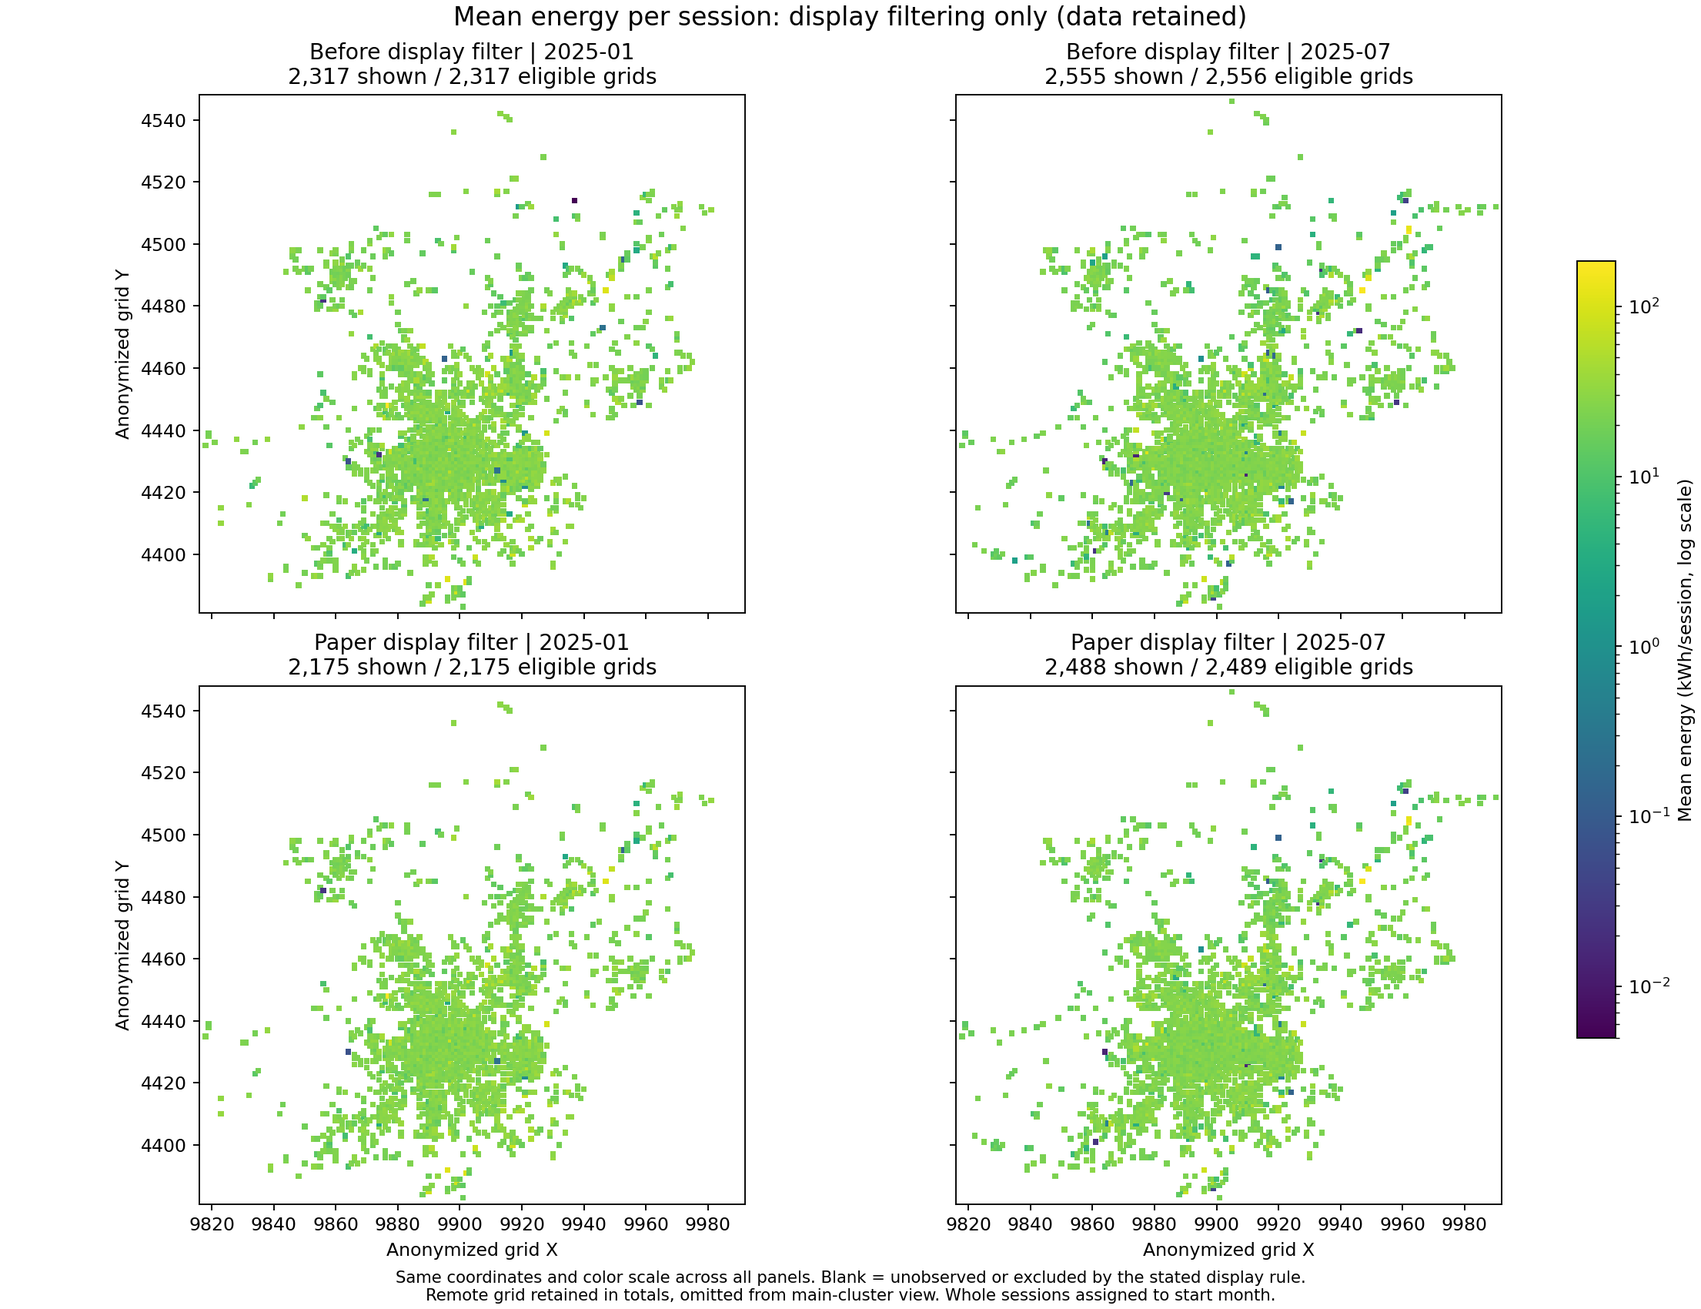
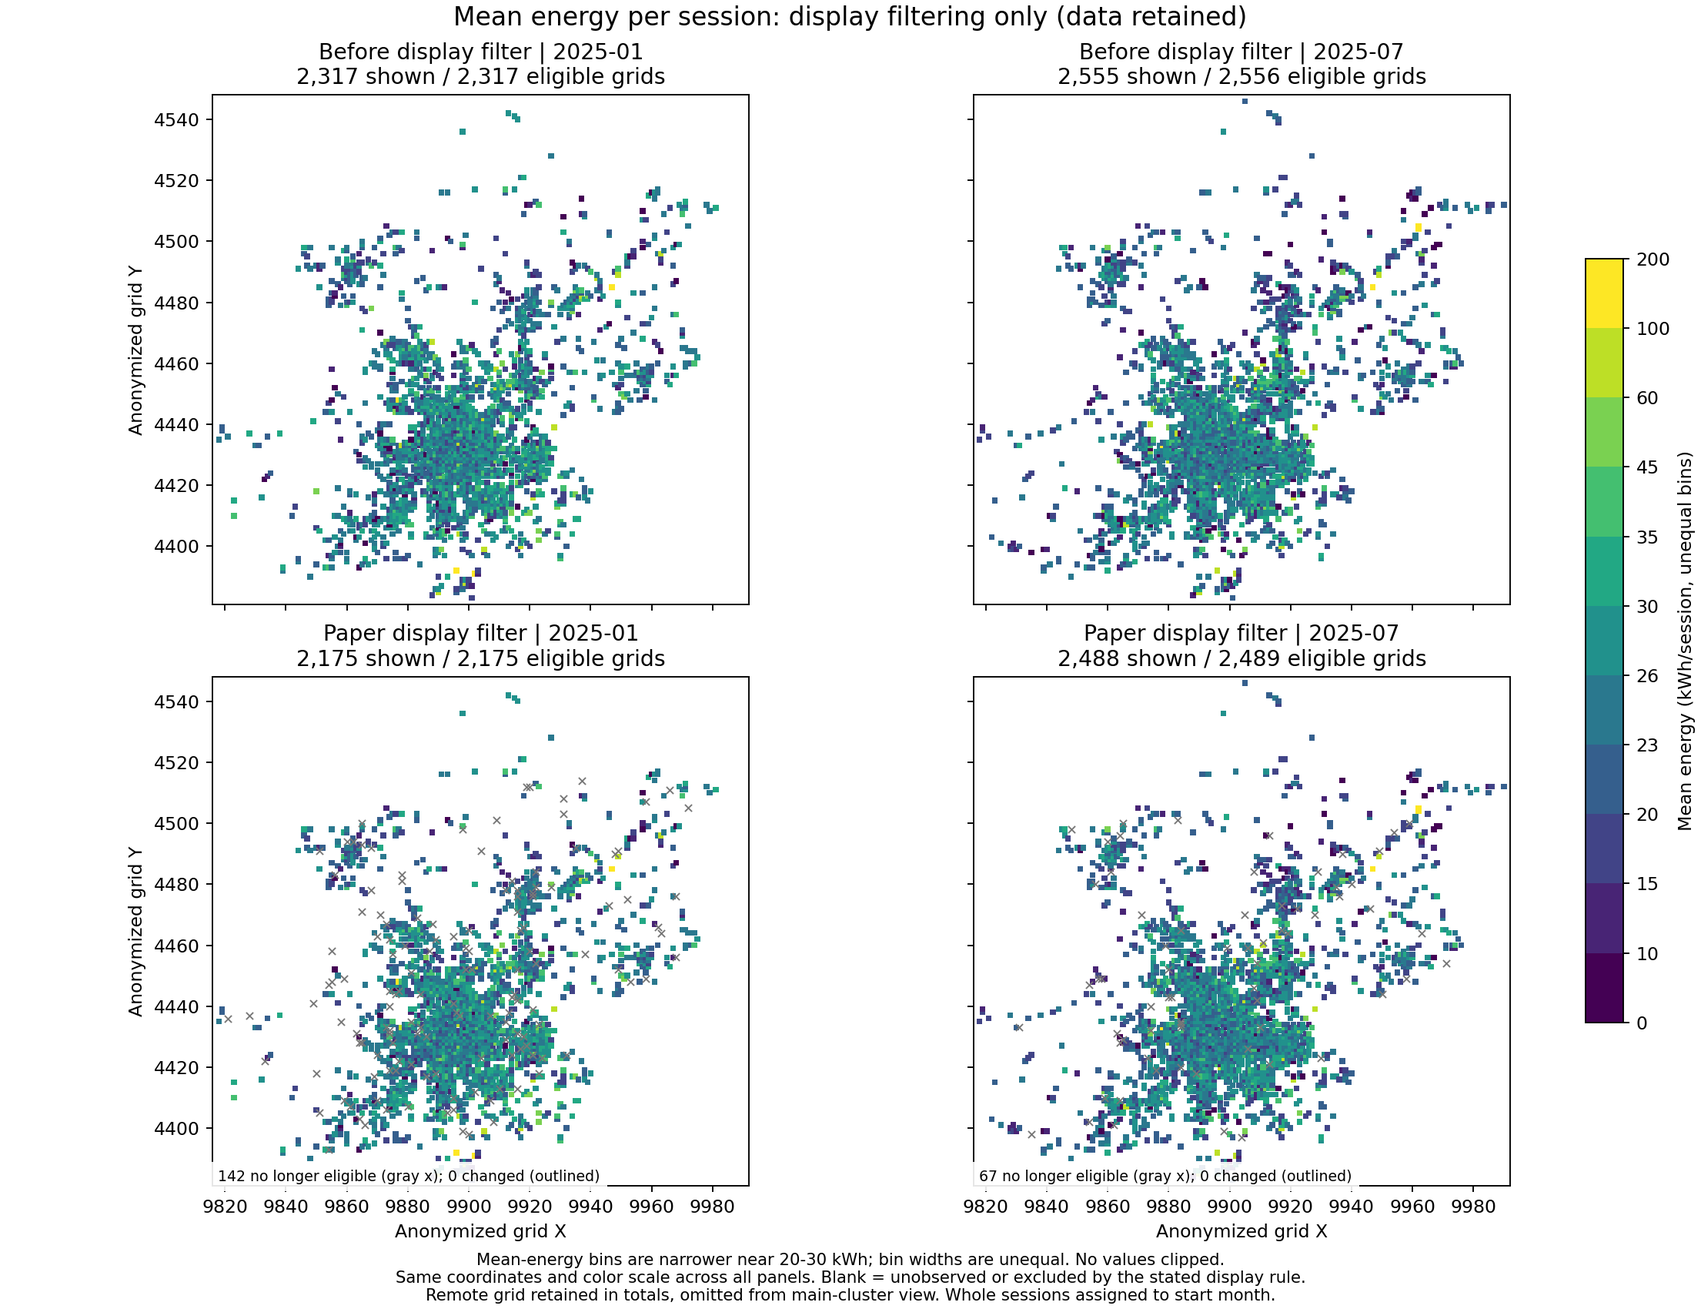
Improve mean-energy color bins and paired utilization viewports

diff --git a/src/analyze_grid_sensitivity.py b/src/analyze_grid_sensitivity.py
@@ -5,7 +5,7 @@ from pathlib import Path
 import matplotlib
 matplotlib.use('Agg')
 import matplotlib.pyplot as plt
-from matplotlib.colors import LogNorm
+from matplotlib.colors import BoundaryNorm
 from matplotlib.ticker import PercentFormatter
 import numpy as np
 import pandas as pd
@@ -62,9 +62,14 @@ def paired_changes(base,alternative,metric):
 def plot_comparison(base,alt,metric,row_names,title,out,main_ids,limits):
     b,norm,cmap=utilization_color_scale()
     if metric=='mean_energy':
-        values=pd.concat([base[metric],alt[metric]])
-        values=values.loc[values.gt(0)]
-        norm,cmap=LogNorm(values.min(),values.max()),'viridis'
+        # Common thresholds for both months and both comparisons. All observed
+        # values remain visible; dense central values receive more color steps.
+        b=np.array([0,10,15,20,23,26,30,35,45,60,100,200],dtype=float)
+        values=pd.concat([base[metric],alt[metric]]).dropna()
+        if values.min()<b[0] or values.max()>b[-1]:
+            raise ValueError('Mean-energy range exceeded: revise explicit display boundaries')
+        cmap=plt.get_cmap('viridis',len(b)-1)
+        norm=BoundaryNorm(b,cmap.N)
     fig,axes=plt.subplots(2,2,figsize=(13,10),sharex=True,sharey=True,layout='constrained')
     for row,g in enumerate([base,alt]):
         for col,month in enumerate(MONTHS):
@@ -72,15 +77,33 @@ def plot_comparison(base,alt,metric,row_names,title,out,main_ids,limits):
             visible=eligible.loc[eligible.grid_id.isin(main_ids)]
             artist=axes[row,col].scatter(visible.x,visible.y,c=visible[metric],cmap=cmap,norm=norm,
                 s=10,marker='s',linewidths=0,rasterized=True)
+            annotation=''
+            if row==1 and metric=='mean_energy':
+                prior=base.loc[base.month.eq(month)].set_index('grid_id')
+                current=g.loc[g.month.eq(month)].set_index('grid_id')
+                lost=prior.loc[prior.index.difference(current.index)]
+                lost_visible=lost.loc[lost.index.isin(main_ids)]
+                axes[row,col].scatter(lost_visible.x,lost_visible.y,s=15,marker='x',c='#777777',linewidths=.8)
+                shared=prior.index.intersection(current.index)
+                changed=(current.loc[shared,metric]-prior.loc[shared,metric]).abs().gt(1e-9)
+                changed_ids=shared[changed]
+                changed_visible=current.loc[current.index.isin(changed_ids)&current.index.isin(main_ids)]
+                axes[row,col].scatter(changed_visible.x,changed_visible.y,s=30,facecolors='none',edgecolors='#111111',linewidths=.8)
+                annotation=f'\n{len(lost)} no longer eligible (gray x); {len(changed_ids)} changed (outlined)'
             axes[row,col].set(title=f'{row_names[row]} | {month}\n{len(visible):,} shown / {len(eligible):,} eligible grids',
                               xlim=limits[:2],ylim=limits[2:])
             axes[row,col].set_aspect('equal',adjustable='box')
             if row==1: axes[row,col].set_xlabel('Anonymized grid X')
             if col==0: axes[row,col].set_ylabel('Anonymized grid Y')
-    options={} if metric=='mean_energy' else dict(boundaries=b,ticks=b,spacing='uniform',format=PercentFormatter(1,decimals=0))
-    fig.colorbar(artist,ax=axes,shrink=.7,label='Mean energy (kWh/session, log scale)' if metric=='mean_energy' else 'Estimated connector utilization',**options)
+            if annotation:
+                axes[row,col].text(.01,.01,annotation.strip(),transform=axes[row,col].transAxes,fontsize=8,
+                    bbox=dict(facecolor='white',alpha=.9,edgecolor='none'))
+    options=dict(boundaries=b,ticks=b,spacing='uniform')
+    if metric!='mean_energy':options['format']=PercentFormatter(1,decimals=0)
+    fig.colorbar(artist,ax=axes,shrink=.7,label='Mean energy (kWh/session, unequal bins)' if metric=='mean_energy' else 'Estimated connector utilization',**options)
     fig.suptitle(title,fontsize=14)
-    fig.supxlabel('Same coordinates and color scale across all panels. Blank = unobserved or excluded by the stated display rule.\n'
+    extra='Mean-energy bins are narrower near 20-30 kWh; bin widths are unequal. No values clipped.\n' if metric=='mean_energy' else ''
+    fig.supxlabel(extra+'Same coordinates and color scale across all panels. Blank = unobserved or excluded by the stated display rule.\n'
                   'Remote grid retained in totals, omitted from main-cluster view. Whole sessions assigned to start month.',fontsize=9)
     fig.savefig(out,dpi=170)
     plt.close(fig)
@@ -151,8 +174,11 @@ def main():
         c=d['metrics']['utilization']['paired_changes']
         lines.append(f"| {month} | {c['median_abs_difference']*100:.4f} | {c['p95_abs_difference']*100:.4f} | {c['max_abs_difference']*100:.4f} | {c['rank_correlation']:.4f} |")
     lines+=['','指标差异为替代方案减基准的绝对值；排名相关使用共同达标网格的平均秩Pearson相关（Spearman定义）。低样本或移除站点导致不达标的网格另计，不以零填补。',
-        '总体影响小不代表每个网格均不受影响，局部差异需单独核查。当前仍存在静态枪数、整月可用及开始月整笔归属假设，未进行停机、会话重叠和自然月时长分摊。',
-        '图上主坐标簇与所有统计使用的完整网格范围分开报告，空间离群点未从数据删除。未进一步完成冬夏共同站点或因果分析。']
+        '总体影响小不代表每个网格均不受影响，局部差异需单独核查。本组分析使用静态枪数、整月可用及开始月整笔归属假设，未校正停机或会话重叠。独立的自然月时长对照见[自然月报告](calendar_month_review.md)。',
+        '图上主坐标簇与所有统计使用的完整网格范围分开报告，空间离群点未从数据删除。共同站点比较见[冬夏报告](winter_summer_comparison.md)，当前未作因果分析。',
+        '', '## 图表标尺修订', '',
+        '平均单次电量两张图使用相同的分段色标：0、10、15、20、23、26、30、35、45、60、100、200 kWh。常见20—30 kWh区间细分，所有观测值保留，色条各段宽度不等，不再使用跨多个数量级的对数色标。',
+        '下排灰色叉号标记不再达标的网格，黑色空心圈标记在共同达标样本中均值变化超过数值容差1e-9 kWh的网格。数量按完整样本统计，远端网格仍按主图范围规则隐藏。展示筛选不会改变保留网格的均值，前后颜色一致具有实际含义。']
     (ROOT/'reports/release_v2_filters_sensitivity.md').write_text('\n'.join(lines)+'\n',encoding='utf-8')
     print(json.dumps(report['months'],ensure_ascii=False,indent=2),flush=True)
     print(output)

diff --git a/src/compare_winter_summer.py b/src/compare_winter_summer.py
@@ -77,17 +77,30 @@ def main():
             row['removed_duration_min']=float(flagged.monthly_duration_min.sum())
             entries.append(row)
         result['large_local_changes'][month]=entries
-    # Each plotted cohort is independently paired; fixed panels retain identity line.
-    fig,axes=plt.subplots(1,3,figsize=(13,4.5),layout='constrained')
-    for ax,name,label in zip(axes,['common_grids','common_stations','common_stations_consistent_facilities'],
-                              ['Common grids','Common stations','Common stations, counts consistent']):
-        p=paired(grid_frames[name],'utilization','guns')*100
-        ax.scatter(p[MONTHS[0]],p[MONTHS[1]],s=8,alpha=.35)
-        ax.plot([0,100],[0,100],color='gray',linewidth=1)
-        ax.set(xlim=(0,100),ylim=(0,100),xlabel='January utilization (%)',ylabel='July utilization (%)',title=f'{label}\n{len(p):,} paired grids')
-        ax.set_aspect('equal')
+    # Common equal-aspect axes preserve the identity-line interpretation. The
+    # first row contains every point; the second is explicitly a viewport zoom.
+    pair_names=['common_grids','common_stations','common_stations_consistent_facilities']
+    pairs={name:paired(grid_frames[name],'utilization','guns')*100 for name in pair_names}
+    maximum=max(float(p.to_numpy().max()) for p in pairs.values())
+    full_limit=max(10.,float(np.ceil(maximum/10)*10))
+    zoom_limit=25.
+    result['scatter_display']={'full_axis_max_percent':full_limit,'zoom_axis_max_percent':zoom_limit,'cohorts':{}}
+    fig,axes=plt.subplots(2,3,figsize=(13,9),layout='constrained')
+    for col,(name,label) in enumerate(zip(pair_names,
+                              ['Common grids','Common stations','Common stations, counts consistent'])):
+        p=pairs[name]
+        in_zoom=p[MONTHS[0]].le(zoom_limit)&p[MONTHS[1]].le(zoom_limit)
+        result['scatter_display']['cohorts'][name]={'total':len(p),'inside_zoom':int(in_zoom.sum()),'outside_zoom':int((~in_zoom).sum())}
+        for row,limit in enumerate([full_limit,zoom_limit]):
+            ax=axes[row,col]
+            shown=p if row==0 else p.loc[in_zoom]
+            ax.scatter(shown[MONTHS[0]],shown[MONTHS[1]],s=7,alpha=.3,linewidths=0,rasterized=True)
+            ax.plot([0,limit],[0,limit],color='gray',linewidth=1)
+            caption=f'All {len(p):,} paired grids' if row==0 else f'Zoom: {int(in_zoom.sum()):,} inside / {int((~in_zoom).sum()):,} outside view'
+            ax.set(xlim=(0,limit),ylim=(0,limit),xlabel='January utilization (%)',ylabel='July utilization (%)',title=f'{label}\n{caption}')
+            ax.set_aspect('equal')
     fig.suptitle('Paired grid utilization: at least 5 observed guns in both months')
-    fig.supxlabel('Observed-active samples; static capacity, full-month availability and start-month attribution assumed. Not a seasonal causal estimate.',fontsize=8)
+    fig.supxlabel('Top row: complete data range. Bottom row: 0-25% zoom; outside-view points remain in all statistics.\nObserved-active samples; static capacity, full-month availability and start-month attribution assumed. Not a seasonal causal estimate.',fontsize=8)
     fig.savefig(output/'01-paired-utilization.png',dpi=170);plt.close(fig)
     fig,axes=plt.subplots(1,2,figsize=(11,4.5),layout='constrained')
     names=list(cohorts);labels=['All observed','Common grids','Common stations','Common stations\nconsistent counts']
@@ -120,7 +133,10 @@ def main():
     lines+=['','差异由移除整个站点同时改变分子时长与分母枪数产生，不能据此认定总数或分项哪一个正确，也不能直接指定某网格为供给不足。达标样本消失的网格见上一轮敏感性清单，不补零。',
             '汇总利用率是总时长／总枪时，配对中位数则是逐网格变化的中位数，不能混称。共同站点是两月都有记录的活跃选择样本，并非两月全部真实在运设施。',
             '当前只能描述1月和7月观察样本的差异，不证明冬夏季节因果。春节、价格、车辆结构、站点开放时间与覆盖变化未被控制。',
-            '尚未校正静态容量与整月可用假设、会话重叠或自然月占用时长。现有结果不是最终选址或供需缺口结论。']
+            '本组仍采用开始月整笔归属，未校正静态容量与整月可用假设或会话重叠；独立的自然月占用时长对照见[自然月报告](calendar_month_review.md)。现有结果不是最终选址或供需缺口结论。',
+            '', '## 配对散点图显示范围', '',
+            f'上排统一使用0%—{full_limit:g}%坐标，覆盖全部配对点。下排统一放大0%—{zoom_limit:g}%区间，仅改变视窗，不删除原始或分析记录，每幅标明视窗内外数量。上下排均保持横纵同尺度和相同利用率对角线。',
+            '旧0%—100%坐标造成不必要留白。标尺修订不改变配对样本、汇总利用率或变化统计。']
     (ROOT/'reports/winter_summer_comparison.md').write_text('\n'.join(lines)+'\n',encoding='utf-8')
     assert digest(source)==before
     print('\n'.join(lines),flush=True)

diff --git a/reports/chart_scale_review.md b/reports/chart_scale_review.md
@@ -1,0 +1,21 @@
+# 三张图的标尺核查与调整
+
+## 核查结果
+
+平均单次电量的两张对照图使用覆盖最小值至最大值的对数色标，确实压缩了典型范围内的色差。完整基准网格均值范围约0.005—183.861 kWh，中位数24.960 kWh，四分位区间21.750—28.211 kWh。用跨多个数量级的色标展示集中于20—30 kWh的主体，导致大多数网格接近同色。
+
+配对利用率散点图原坐标为0%—100%，而共同网格的1月最大约38.063%、7月最大约52.737%；95分位分别约12.661%和22.424%。因此存在不必要留白和低值密集遮挡。
+
+## 已实施的修订
+
+1. 两张电量均值图共用相同分段：0、10、15、20、23、26、30、35、45、60、100、200 kWh。常见范围细分，尾部保留；不剔除或裁切极端值。色条明确注明各区间宽度不同，不将色差解读成相同数值差。
+2. 下排标记被筛掉的网格和发生实际变化的网格。筛掉的网格用灰叉，仍达标且均值变化的网格用黑色空心圈。主图仍遵循既有远端坐标显示范围规则，标题数量按完整样本统计。
+3. 散点图改成两排：上排统一0%—60%，覆盖全部点；下排统一0%—25%放大图，并标注视窗内外数量。横纵同尺度，保留相等利用率对角线，所有统计继续使用完整配对样本。
+
+## 为什么调整后前后图仍可能相似
+
+低样本筛选仅决定网格是否展示，不改变保留网格的订单、电量或平均值。因此同一网格筛前筛后颜色相同是正确结果。变化主要体现在1月142个、7月67个低订单网格不再展示，而不是全部网格重新变色。
+
+设施计数敏感性中，排除异常计数站点会同时移除其订单、电量。共同达标网格的平均电量在1月17个、7月33个网格发生变化，大多数网格保持原值，另有网格因消失或不达门槛而不再展示。不能为了让前后看起来不同而分别调整各面板色标。
+
+本次只改展示方式，源数据、筛选规则和统计结论均保持不变。README引用现有图片路径，刷新即可看到修订图。原图的已提交版本可通过Git历史对照。

diff --git a/README.md b/README.md
@@ -98,7 +98,7 @@ python src/analyze_calendar_month.py
 
 这组图单独实施论文展示门槛，基准空间图仍保留完整观测网格。详见[筛选及敏感性说明](reports/release_v2_filters_sensitivity.md)。
 
-**9. 平均单次电量的低样本筛选对照**：筛选前后比较，门槛为至少5笔订单。
+**9. 平均单次电量的低样本筛选对照**：门槛为至少5笔订单。共用常见范围更细的分段色标，灰叉标出筛掉的网格，保留网格的均值不变。
 
 ![平均单次电量展示筛选](reports/figures/source_release2/20261104T011749595890Z/paper_filters_sensitivity/mean_energy_display_filter.png)
 
@@ -106,7 +106,7 @@ python src/analyze_calendar_month.py
 
 ![利用率展示筛选](reports/figures/source_release2/20261104T011749595890Z/paper_filters_sensitivity/utilization_display_filter.png)
 
-**11. 平均单次电量的设施计数敏感性**：比较保留与排除设施总分项不一致站点的结果。
+**11. 平均单次电量的设施计数敏感性**：比较保留与排除设施总分项不一致站点的结果，与图9使用同一色标，黑色空心圈标出均值发生变化的网格。
 
 ![平均电量设施计数敏感性](reports/figures/source_release2/20261104T011749595890Z/paper_filters_sensitivity/mean_energy_facility_sensitivity.png)
 
@@ -116,7 +116,7 @@ python src/analyze_calendar_month.py
 
 ### 四、共同网格与共同站点冬夏比较（2张）
 
-**13. 网格利用率配对散点图**：横轴1月、纵轴7月，对角线上方表示7月更高；各面板分别控制网格或站点范围。
+**13. 网格利用率配对散点图**：横轴1月、纵轴7月，对角线上方表示7月更高。上排统一0%—60%覆盖全部点，下排统一0%—25%放大并标明视窗内外数量；各列分别控制网格或站点范围。详见[标尺核查](reports/chart_scale_review.md)。
 
 ![冬夏配对利用率](reports/figures/source_release2/20261104T011749595890Z/winter_summer/01-paired-utilization.png)
 

diff --git a/reports/release_v2_filters_sensitivity.md b/reports/release_v2_filters_sensitivity.md
@@ -18,5 +18,10 @@
 | 2025-07 | 0.0000 | 0.0000 | 15.8909 | 0.9973 |
 
 指标差异为替代方案减基准的绝对值；排名相关使用共同达标网格的平均秩Pearson相关（Spearman定义）。低样本或移除站点导致不达标的网格另计，不以零填补。
-总体影响小不代表每个网格均不受影响，局部差异需单独核查。当前仍存在静态枪数、整月可用及开始月整笔归属假设，未进行停机、会话重叠和自然月时长分摊。
-图上主坐标簇与所有统计使用的完整网格范围分开报告，空间离群点未从数据删除。未进一步完成冬夏共同站点或因果分析。
+总体影响小不代表每个网格均不受影响，局部差异需单独核查。本组分析使用静态枪数、整月可用及开始月整笔归属假设，未校正停机或会话重叠。独立的自然月时长对照见[自然月报告](calendar_month_review.md)。
+图上主坐标簇与所有统计使用的完整网格范围分开报告，空间离群点未从数据删除。共同站点比较见[冬夏报告](winter_summer_comparison.md)，当前未作因果分析。
+
+## 图表标尺修订
+
+平均单次电量两张图使用相同的分段色标：0、10、15、20、23、26、30、35、45、60、100、200 kWh。常见20—30 kWh区间细分，所有观测值保留，色条各段宽度不等，不再使用跨多个数量级的对数色标。
+下排灰色叉号标记不再达标的网格，黑色空心圈标记在共同达标样本中均值变化超过数值容差1e-9 kWh的网格。数量按完整样本统计，远端网格仍按主图范围规则隐藏。展示筛选不会改变保留网格的均值，前后颜色一致具有实际含义。

diff --git a/reports/winter_summer_comparison.md b/reports/winter_summer_comparison.md
@@ -38,4 +38,9 @@
 差异由移除整个站点同时改变分子时长与分母枪数产生，不能据此认定总数或分项哪一个正确，也不能直接指定某网格为供给不足。达标样本消失的网格见上一轮敏感性清单，不补零。
 汇总利用率是总时长／总枪时，配对中位数则是逐网格变化的中位数，不能混称。共同站点是两月都有记录的活跃选择样本，并非两月全部真实在运设施。
 当前只能描述1月和7月观察样本的差异，不证明冬夏季节因果。春节、价格、车辆结构、站点开放时间与覆盖变化未被控制。
-尚未校正静态容量与整月可用假设、会话重叠或自然月占用时长。现有结果不是最终选址或供需缺口结论。
+本组仍采用开始月整笔归属，未校正静态容量与整月可用假设或会话重叠；独立的自然月占用时长对照见[自然月报告](calendar_month_review.md)。现有结果不是最终选址或供需缺口结论。
+
+## 配对散点图显示范围
+
+上排统一使用0%—60%坐标，覆盖全部配对点。下排统一放大0%—25%区间，仅改变视窗，不删除原始或分析记录，每幅标明视窗内外数量。上下排均保持横纵同尺度和相同利用率对角线。
+旧0%—100%坐标造成不必要留白。标尺修订不改变配对样本、汇总利用率或变化统计。
